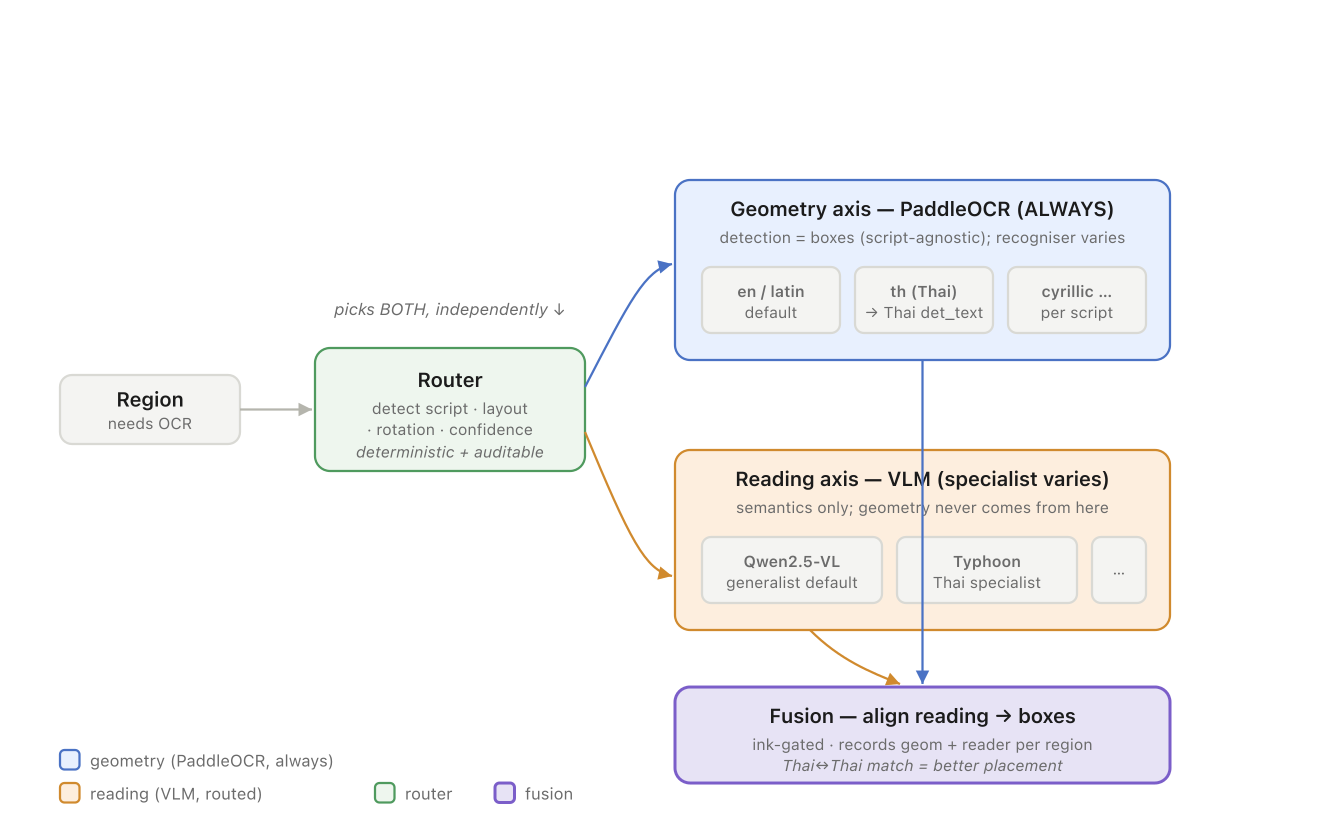
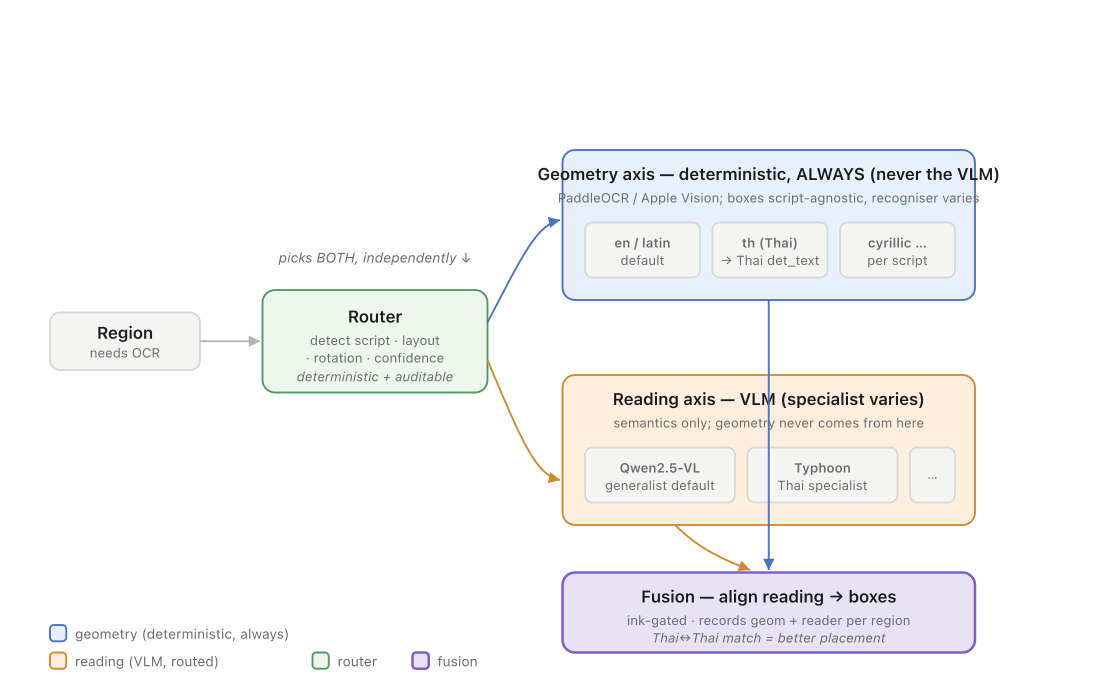
Mark document.md as the ungated reading view; correct "always PaddleOCR" claims
document.md is what a reader actually reads, but for VLM-read pages it's the raw
transcription (model inferences included) while the gate only protects the
overlay/segments. Prepend an honest header to the reading view when a VLM read
any page, pointing to overlay.pdf + segment_index.json as the ink-gated,
provenance-bearing record; born-digital / Apple-Vision docs (exact text) get no
caveat. Separately, the docs asserted "PaddleOCR is ALWAYS the geometry engine,"
which prefer_apple_vision made false — correct routing.py / routing.md / README /
the diagram to the true invariant: geometry is always DETERMINISTIC (PaddleOCR or
Apple Vision), never the VLM.

Changed region(s): [[0.4945, 0.24, 0.9273, 0.3], [0.1236, 0.9, 0.2782, 0.93], [0.6491, 0.84, 0.7109, 0.87]]

diff --git a/tests/test_render.py b/tests/test_render.py
@@ -1,0 +1,31 @@
+"""Reading-view provenance note — the honesty header on document.md.
+
+The markdown is a reading aid; the overlay + segment index are the gated, provenanced
+artifacts. The VLM caveat must appear only when a VLM actually read a page (born-digital
+and Apple-Vision output is exact / ink-gated, not a model transcription)."""
+
+from __future__ import annotations
+
+from fusion_ocr.models import Document, Page
+from fusion_ocr.stages.render import _provenance_note
+
+
+def _doc(*read_models) -> Document:
+    return Document(source_path="x", sha256="s",
+                    pages=[Page(index=i, read_model=m) for i, m in enumerate(read_models)])
+
+
+def test_note_present_when_a_vlm_read_a_page():
+    note = _provenance_note(_doc("mlx-community/Qwen3-VL-8B-Instruct-4bit"))
+    assert "vision-language model" in note
+    assert "overlay.pdf" in note and "segment_index.json" in note
+
+
+def test_no_note_for_apple_vision_or_born_digital():
+    assert _provenance_note(_doc("apple_vision")) == ""   # exact on-device text
+    assert _provenance_note(_doc("")) == ""               # born-digital / no read
+
+
+def test_note_present_if_any_page_used_a_vlm():
+    # mixed doc: one Apple-Vision page + one VLM page -> caveat still applies
+    assert "vision-language model" in _provenance_note(_doc("apple_vision", "qwen"))

diff --git a/src/fusion_ocr/stages/render.py b/src/fusion_ocr/stages/render.py
@@ -64,8 +64,9 @@ class Render:
         # Markdown reading view (segments already in reading order). Table regions are
         # emitted as their filled HTML table at their position; everything else as text.
         parts = [t for t in (_page_markdown(p) for p in doc.pages) if t]
+        body = "\n\n".join(parts) if parts else "_(no text extracted yet)_\n"
         md_path = work / "document.md"
-        md_path.write_text("\n\n".join(parts) if parts else "_(no text extracted yet)_\n")
+        md_path.write_text(_provenance_note(doc) + body)
         doc.artifacts["markdown"] = str(md_path)
 
         overlay_path = work / "overlay.pdf"
@@ -87,6 +88,21 @@ def _conf_counts(table_html: str) -> dict:
     for level in re.findall(r'data-confidence="(\w+)"', table_html):
         counts[level] = counts.get(level, 0) + 1
     return counts
+
+
+def _provenance_note(doc: Document) -> str:
+    """Honest header for the reading view. document.md is a READING aid; the overlay and
+    segment index are the gated, provenance-bearing artifacts. The VLM caveat appears
+    only when a vision-language model actually read a page — born-digital / Apple-Vision
+    output is exact text (or ink-gated OCR), not a model transcription."""
+    vlm_used = any(p.read_model and p.read_model != "apple_vision" for p in doc.pages)
+    if not vlm_used:
+        return ""
+    return (
+        "> _Reading view. Pages read by a vision-language model are a transcription and "
+        "may contain model inferences on degraded or handwritten text. The searchable "
+        "`overlay.pdf` and `segment_index.json` are the ink-gated, provenance-bearing "
+        "record — every segment backs to a detected box and its source._\n\n")
 
 
 def _page_markdown(page: Page) -> str:

diff --git a/src/fusion_ocr/routing.py b/src/fusion_ocr/routing.py
@@ -1,9 +1,10 @@
 """Tool routing — pick a (PaddleOCR recogniser, VLM reader) pair per region.
 
 Deterministic and auditable: a region's script is detected by Unicode-range counting,
-then mapped to a Route. PaddleOCR is ALWAYS the geometry engine; only its recogniser
-language varies. The VLM reader varies by specialist (generalist default, e.g. Typhoon
-for Thai). See Docs/routing.md.
+then mapped to a Route. Geometry always comes from a DETERMINISTIC engine — PaddleOCR,
+or Apple Vision when prefer_apple_vision is set (macOS) — never the VLM; only the
+recogniser/engine varies. The VLM reader varies by specialist (generalist default, e.g.
+Typhoon for Thai). See Docs/routing.md.
 
 Config overrides: a [routing.<script>] table in config.toml may set paddle_lang,
 vlm_model, vlm_base_url for any script (e.g. point Thai at a served Typhoon endpoint).

diff --git a/Docs/routing.md b/Docs/routing.md
@@ -9,11 +9,12 @@ For every region we make **two** independent tool choices — they are orthogona
 
 | Axis | Owner | Always on? | What varies |
 | --- | --- | --- | --- |
-| **Geometry** (boxes) | deterministic — **PaddleOCR** | **yes, always** | which *recogniser language* (Thai / Latin / Cyrillic / CJK …) |
+| **Geometry** (boxes) | a **deterministic** engine — PaddleOCR, or Apple Vision when `prefer_apple_vision` | **yes, always — never the VLM** | which *engine* + *recogniser language* (Thai / Latin / Cyrillic / CJK …) |
 | **Reading** (semantics) | a **VLM** | when OCR is needed | which *reader* — generalist (Qwen) or a specialist (Typhoon for Thai, …) |
 
-Routing to a specialist VLM **never** removes PaddleOCR. Geometry is always
-deterministic; only the *reader* changes. The Thai route is:
+Routing to a specialist VLM **never** moves geometry to the VLM. Geometry is always
+deterministic (PaddleOCR, or Apple Vision on macOS when preferred); only the *reader*
+changes. The Thai route is:
 
 ```
 Thai region → PaddleOCR detection (boxes) + PaddleOCR-Thai recogniser (det_text)

diff --git a/README.md b/README.md
@@ -99,8 +99,8 @@ Paddle won't attempt its connectivity check.
 ## Tool routing
 
 The pipeline triages each region and routes it on two independent axes — geometry
-(PaddleOCR, always on, recogniser language varies) and reading (VLM, specialist
-varies). See **[Docs/routing.md](Docs/routing.md)**. Thai is the first specialist
+(always a deterministic engine — PaddleOCR, or Apple Vision when preferred — never the
+VLM) and reading (VLM, specialist varies). See **[Docs/routing.md](Docs/routing.md)**. Thai is the first specialist
 route: `paddle_lang=th` reads Thai forms that the generalist VLMs can't, and a
 config `[routing.thai]` section points the *reader* at a served Typhoon endpoint when
 one's available.